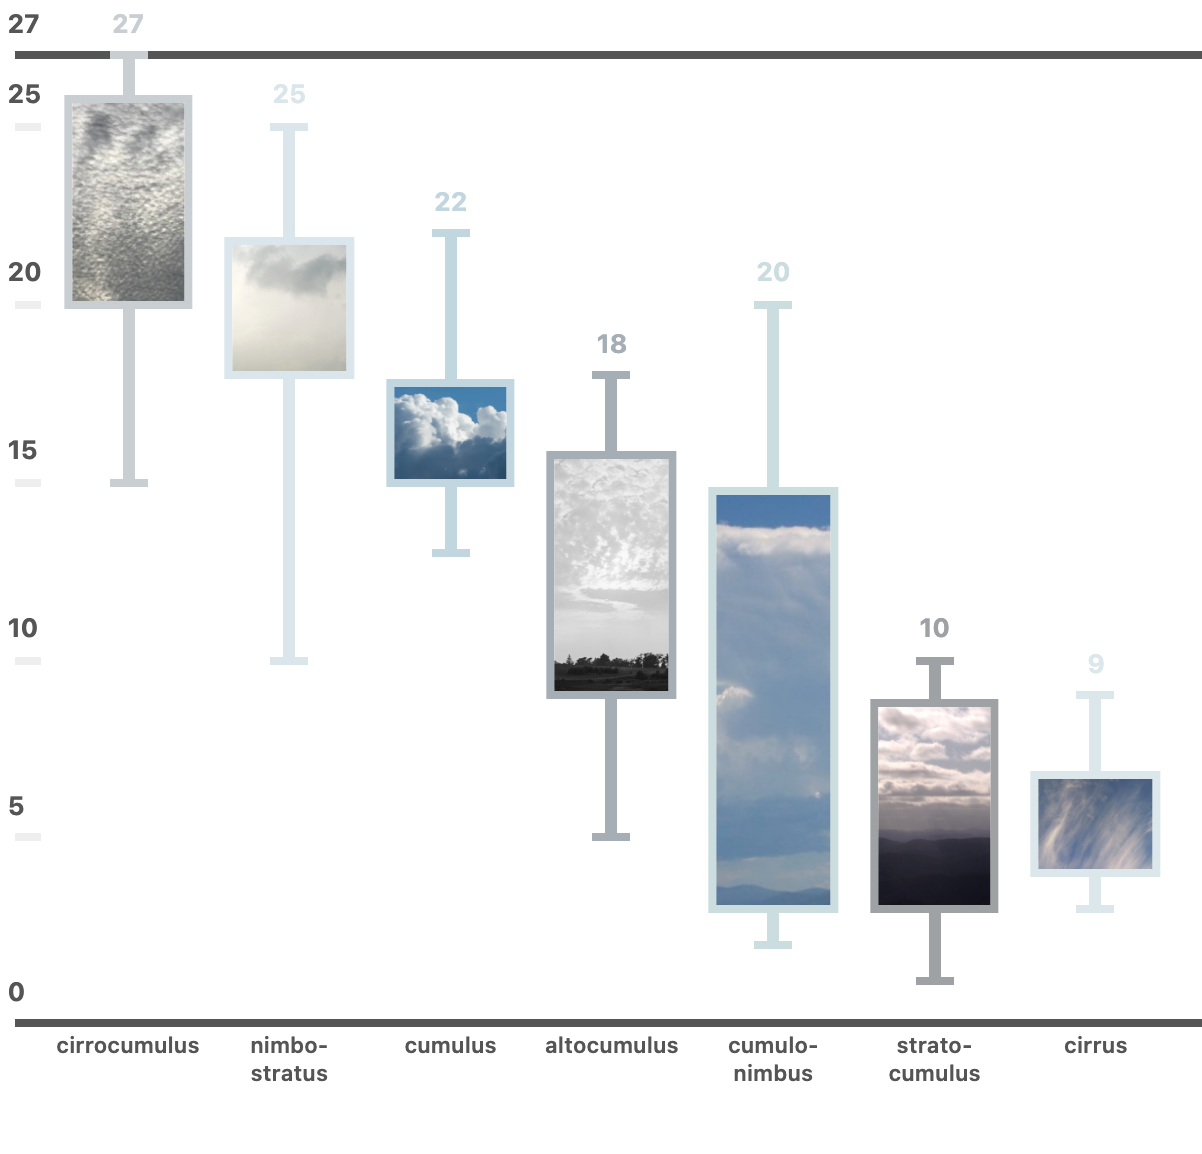
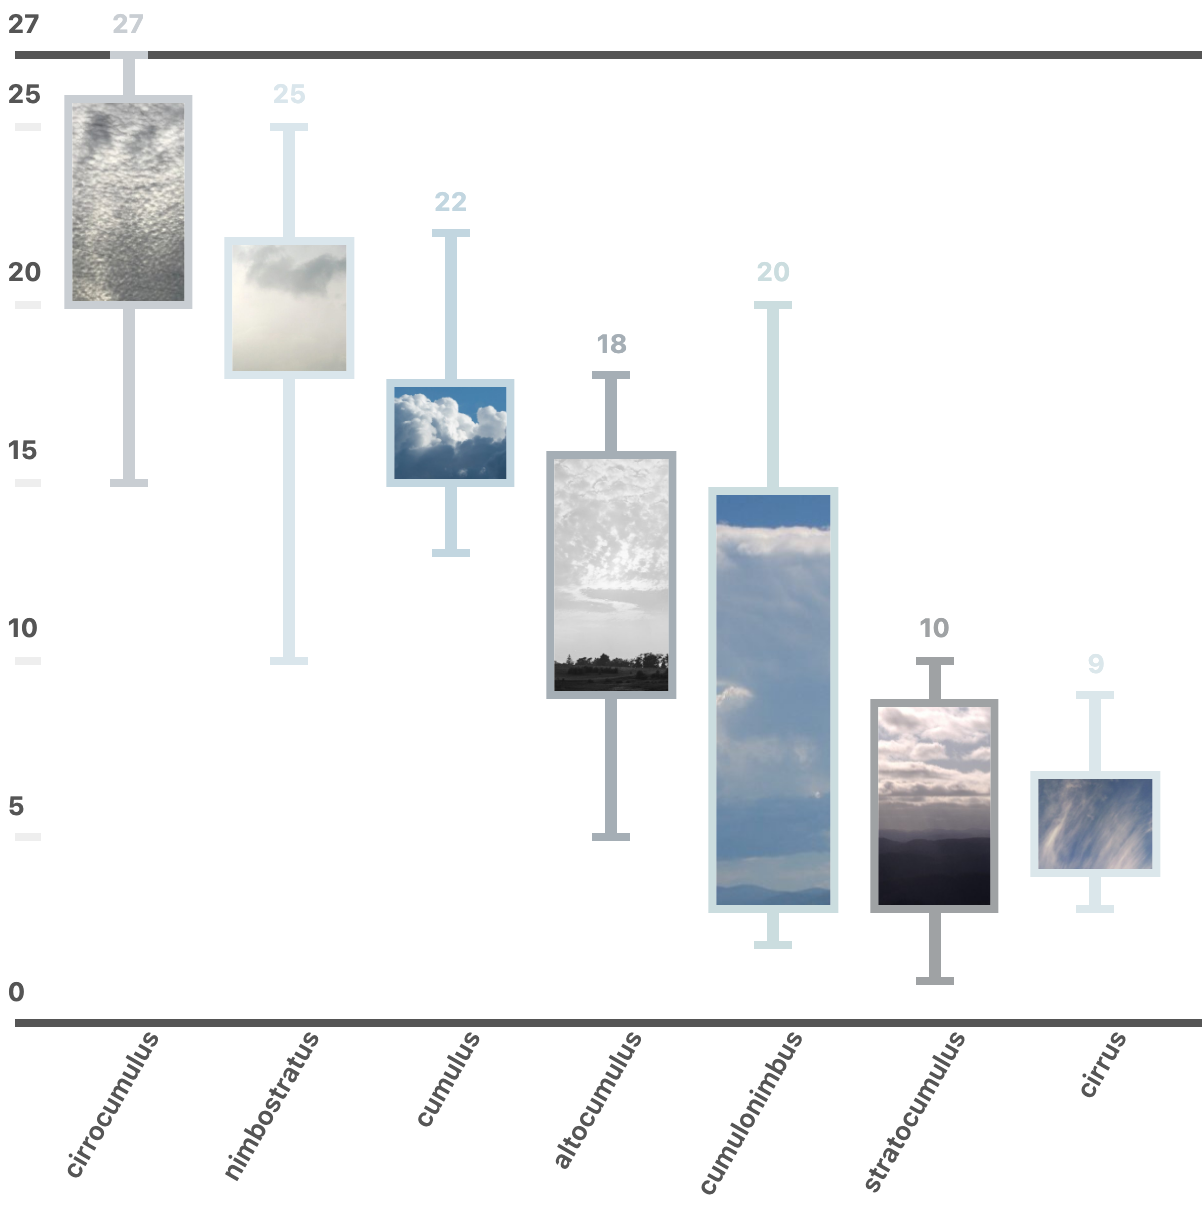
Lay the clouds bare, turn their names, and darken what a hover picks out
The box plot sat on v1's white card. The card is gone, and with it the outline
and the background it drew, so the chart sits straight on the page and takes the
docs' own colors. `.v1-card` was the box plot's alone, so its CSS goes too.

Standing up, a cloud's name had a column of about 60px to fit in and wrapped at a
soft hyphen to manage it. The name turns 60 degrees instead, pinned by its right
end to the middle of its column and swinging down and to the left, so it reads up
to the column it names and nothing wraps. The hyphen helper it needed is gone.

A hovered cloud goes to ink rather than muted, which its name and its value were
already doing. The box keeps a rule of its own because it is a frame around a
photograph: its color is its border, and a background on it would be painted
under an opaque border and an image that covers the rest.

diff --git a/src/gallery/examples/box-plot/poster/chart.jsx b/src/gallery/examples/box-plot/poster/chart.jsx
@@ -15,9 +15,6 @@ import cirrocumulus from "./assets/cirrocumulus.jpg?url";
 // The marks start 16px above the first slat, and the numbers sit over them, in the room this slat asks for.
 // A mark is "zero" (solid, just before 0), "end" (solid, at the max), or between them `marks`:
 // "line" (dashed, as long as the plot) or "tick" (13px long).
-// A cloud's name may break (with a hyphen) between its Latin roots, cumulo-nimbus, when its label is narrow.
-const syllables = (name) => name.replace(/^(cirro|alto|nimbo|strato|cumulo)(?=\w)/, "$1\u00ad");
-
 export const V1Scale = slat({
   room: { horizontal: { before: 40, after: 13 }, vertical: { before: 24, end: 30, after: 13 } },
   css: styles.scale,
@@ -44,11 +41,11 @@ const WHISKERS = [[1, 3, 9, 10], [2, 3, 15, 20], [5, 9, 16, 18], [3, 4, 7, 9], [
 export const BoxSlat = slat({
   thickness: { horizontal: 79 },
   inset: "8px",
-  room: { horizontal: { start: 124, end: 37 }, vertical: { start: 44, end: 30 } }, // for the names and values
+  room: { horizontal: { start: 124, end: 37 }, vertical: { start: 96, end: 30 } }, // for the names and values
   css: styles.box,
 }, (d) => (
   <div class={d.dim ? "slat dim" : "slat"} style={{ "--rhp-color": d.color }}>
-    <Label edge="start" class="name">{syllables(d.name)}</Label>
+    <Label edge="start" class="name">{d.name}</Label>
     <Bar from={d.box[0]} to={d.box[1]} thick="6px" class="whisker" />
     <Bar from={d.box[2]} to={d.box[3]} thick="6px" class="whisker" />
     <Tick at={d.box[0]} thick="19px" class="cap" />
@@ -83,13 +80,11 @@ export default function Clouds(p) {
           <output>{boxes()[0][2]}</output>
         </label>
       </div>
-      <div class="v1-card">{/* v1's white card, from the page's CSS */}
-        <Chart orientation={p.o()} scale={[0, max()]} height={480} animate={p.js()}>
-          <Scale ticks={every(5, { ends: true })} marks="tick">{V1Scale}</Scale>
-          <Plot name={CLOUDS} photo={PHOTOS} color={GREYS} box={boxes()} dim={dim()}
-            order={ranked() ? sortBy((d) => d.box[2], "desc") : undefined}>{BoxSlat}</Plot>
-        </Chart>
-      </div>
+      <Chart orientation={p.o()} scale={[0, max()]} height={480} animate={p.js()}>
+        <Scale ticks={every(5, { ends: true })} marks="tick">{V1Scale}</Scale>
+        <Plot name={CLOUDS} photo={PHOTOS} color={GREYS} box={boxes()} dim={dim()}
+          order={ranked() ? sortBy((d) => d.box[2], "desc") : undefined}>{BoxSlat}</Plot>
+      </Chart>
     </>
   );
 }

diff --git a/src/customizations/styles/gallery.css b/src/customizations/styles/gallery.css
@@ -156,9 +156,25 @@
   .poster.trials .hub span { display: none; }
 }
 
+/* Four hours to yourself: dotted paper after dark. The wedges are the light in it, and their labels are punched out
+   of them in the paper's own color. */
+.poster.day {
+  container-type: inline-size;
+  color: #eef1f8;
+  background:
+    radial-gradient(58% 52% at 50% 54%, rgb(120 134 214 / .22), transparent 72%),
+    radial-gradient(rgb(226 233 255 / .085) 1px, transparent 1.4px) 0 0 / 15px 15px,
+    linear-gradient(168deg, #171b2c, #0b0e18);
+}
+/* The chart's box follows the pie in it, so no empty band is left above and below. */
+.poster.day .rhp-chart { --rhp-height: clamp(280px, calc(100cqw - 20px), 560px) !important; }
+.poster.day .kicker { color: #ff7a8c; opacity: 1; }
+.poster.day .headline { font: 800 40px/1 var(--poster-display); letter-spacing: -0.03em; }
+.poster.day .dek { opacity: .74; }
+.poster.day .note { opacity: .5; }
 
-/* The v1 replicas' page boxes. v1's box plot sat on a white card; the animated dots sit in a window exactly
-   11 dots wide, which zooms down to fit a narrow page. */
+
+/* The animated dots sit in a window exactly 11 dots wide, which zooms down to fit a narrow page. */
 /* The heatmap's readout: the hour under the pointer, above the chart. */
 .playground .heat-readout { margin: 0 0 10px; min-height: 1.5em; font-size: 14px; font-variant-numeric: tabular-nums; color: var(--sl-color-white); }
 .playground .buttons { display: flex; flex-wrap: wrap; align-items: center; gap: 6px; }
@@ -168,8 +184,6 @@
 .playground .slider { display: inline-flex; align-items: center; gap: 8px; margin: 0 0 8px 8px; font-size: 13px; color: var(--sl-color-text); }
 .playground .slider input { width: 160px; margin: 0; accent-color: var(--gallery-accent); }
 .playground .slider output { min-width: 2.5ch; font-weight: 600; font-variant-numeric: tabular-nums; color: var(--sl-color-white); }
-.playground .v1-card { background: #2e2f43; border-radius: 16px; padding-bottom: 24px; box-shadow: inset 0 0 0 1px var(--sl-color-gray-5); }
-:root[data-theme="light"] .playground .v1-card { background: #ffffff; box-shadow: rgba(60, 64, 67, 0.3) 0px 1px 2px 0px, rgba(60, 64, 67, 0.15) 0px 1px 3px 1px; }
 /* The dots zoom to the room they have; the room must not grow with them (a turn could leave it too wide for good). */
 .playground .dots-fit { contain: inline-size; }
 .playground .dots-window { width: fit-content; margin: 0 auto; }

diff --git a/src/gallery/examples/box-plot/poster/styles.js b/src/gallery/examples/box-plot/poster/styles.js
@@ -23,7 +23,10 @@ export const scale = `
 // A cloud: its name, the whiskers and their caps, the box filled with its photo, and the top value. Hover a slat to zoom the photo out.
 export const box = `
 .name { font-size: 15px; font-weight: 600; line-height: 1.2; color: var(--rhp-muted); }
-.name:vertical { font-size: 11px; white-space: normal; hyphens: manual; padding-inline: 4px; }
+/* Standing up, a column is too narrow for a name, so the name is turned 60 degrees and reads up to its own column.
+   Its right end is pinned to the middle of the column and it swings down and to the left from there. */
+.name:vertical { left: auto; right: 50%; width: max-content; padding-inline: 0; font-size: 13px; white-space: nowrap;
+  text-align: right; overflow: visible; transform-origin: 100% 0; transform: rotate(-60deg); }
 .whisker, .box { --rhp-radius: 0px; }
 .cap { --rhp-tick-width: 4px; }
 .cap:horizontal { translate: 0 -50%; }
@@ -34,9 +37,9 @@ export const box = `
 .value { font-size: 13px; font-weight: 700; line-height: 19.5px; font-variant-numeric: normal; color: var(--rhp-color); --rhp-label-gap: 8px; }
 .value:horizontal { margin-top: -1px; } /* v1: 1px above the middle */
 .slat:hover .name { color: var(--rhp-ink); }
-.slat:hover .box { border: 5px solid var(--rhp-muted); }
+.slat:hover :is(.whisker, .cap) { background: var(--rhp-ink); }
+.slat:hover .box { border-color: var(--rhp-ink); border-width: 5px; } /* the box is a frame around a photo: its color is its border */
 .slat:hover .box > img { transform: scale(1.1); }
-.slat:hover :is(.whisker, .cap) { background: var(--rhp-muted); }
 .slat:hover .cap { --rhp-tick-width: 6px; }
 .slat:hover .value { color: var(--rhp-ink); }
 .dim { filter: saturate(10%); }
